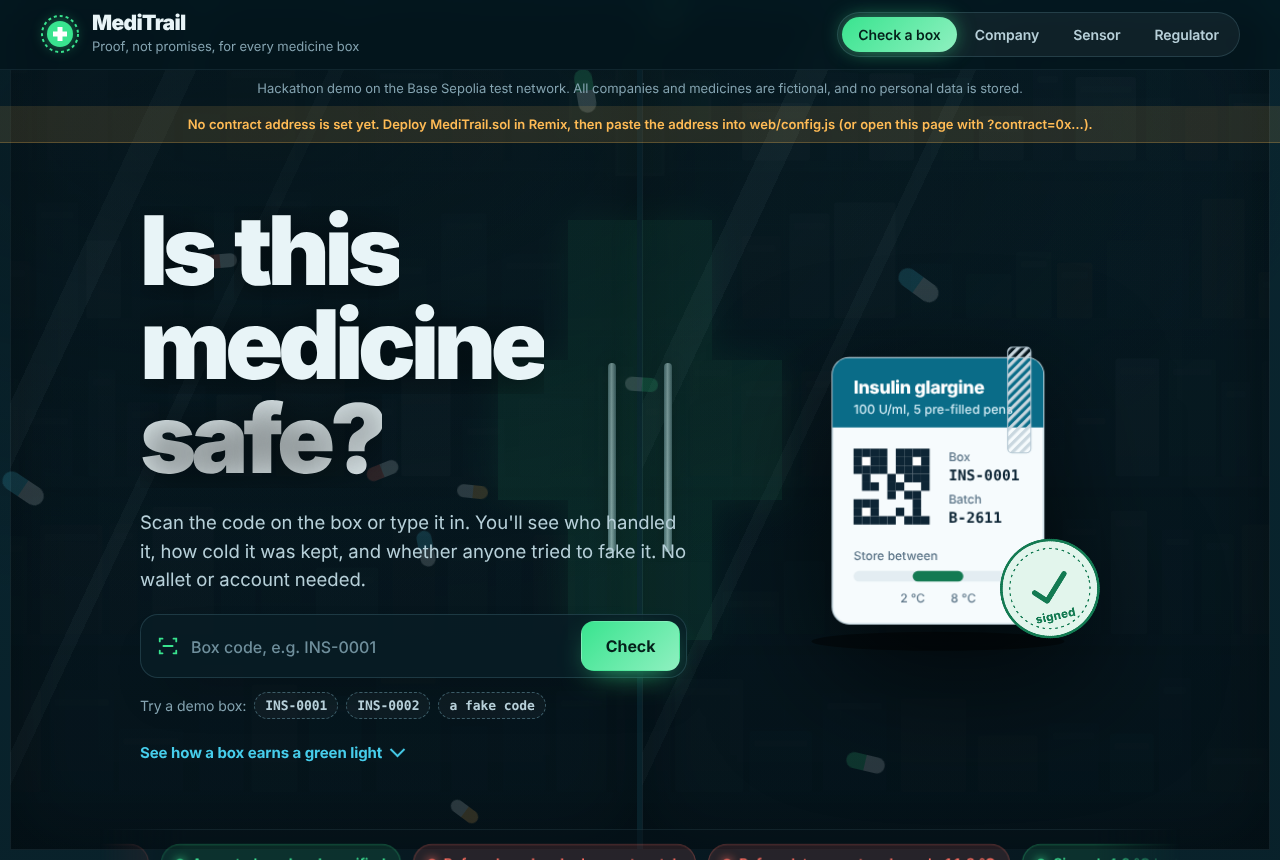
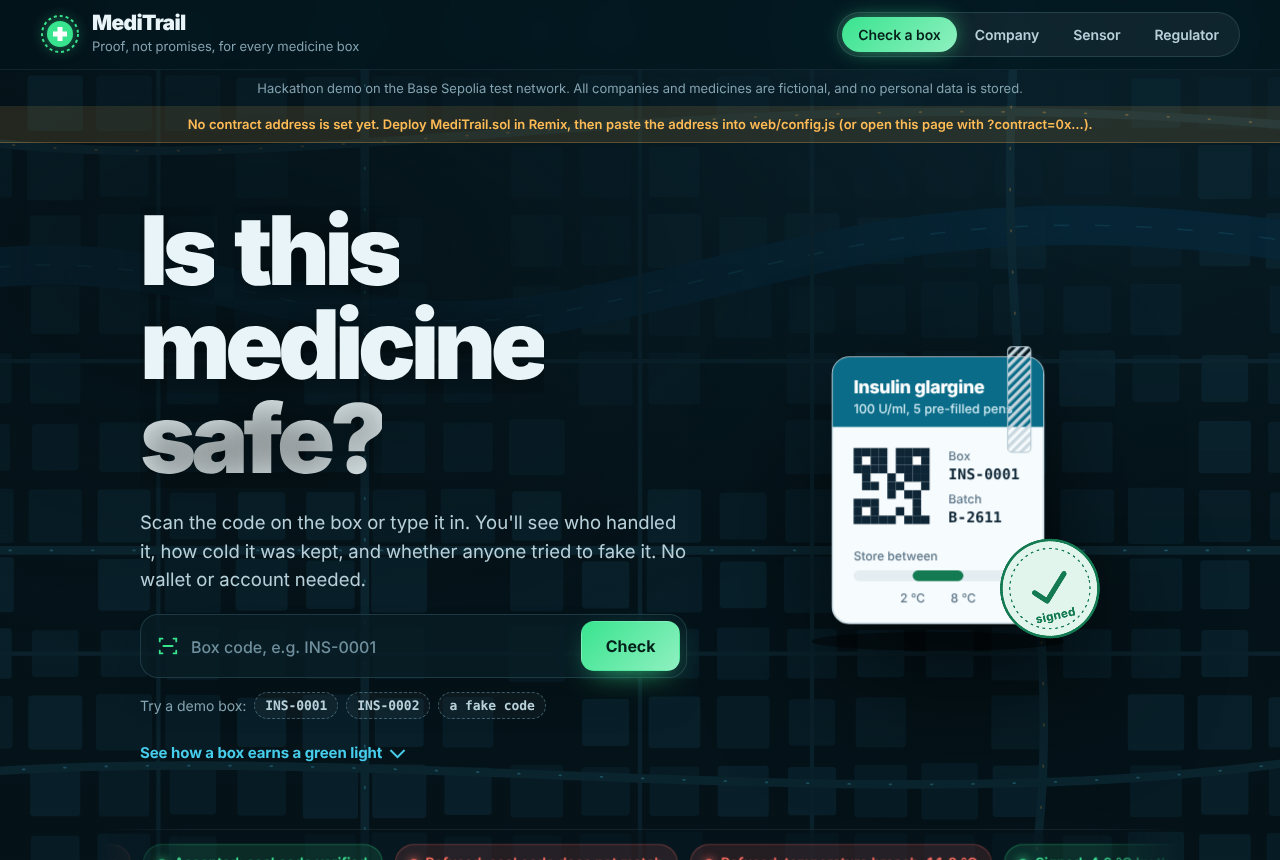
Background: a night cold-chain map instead of the storefront
- A dark city map (blocks, roads with moving traffic, a river) sits
  behind every page
- Once you scroll past the hero, a route fades in and draws itself
  Factory -> Distributor -> Pharmacy -> You; a glowing medicine box
  travels along it with a live temperature tag
- Each stop the box reaches lights up with a ripple and becomes a
  signed block (registered, seal verified, received cold, green light)
- Portrait screens get a vertical route; panels are more solid so map
  labels never show through text; reduced motion stops the traffic
- Browser test (33 checks) still passes

Claude-Session: https://claude.ai/code/session_01MKzpd15DitKQJQaCPeu47y

diff --git a/web/app.js b/web/app.js
@@ -593,57 +593,122 @@ async function renderAdminLists() {
 
 
 
-// ------------------------------------------------------------------ the storefront behind the page
-// Behind every page sits a pharmacy at night. Two glass doors, each carrying half of a neon
-// cross, slide apart as you scroll and reveal lit shelves of medicine boxes.
+// ------------------------------------------------------------------ the cold-chain map behind the page
+// Behind every page is a night map of a city. A route runs Factory -> Distributor -> Pharmacy -> You.
+// As you scroll, the route draws itself, a glowing medicine box travels along it with a live
+// temperature reading, and each stop it reaches lights up as a signed block.
 
 function seeded(seed) { return () => ((seed = (seed * 16807) % 2147483647) - 1) / 2147483646; }
-(function buildShelves() {
-  const host = $("#scene-interior");
-  if (!host) return;
-  const rnd = seeded(20261124);
-  const colours = ["#1f6f86", "#2a8f6a", "#5b4a96", "#b8873a", "#b95546", "#2c5d8f", "#cfe2ea", "#3a9fb5"];
-  let boxes = "";
-  const shelfYs = [210, 380, 550, 720, 890];
-  for (const y of shelfYs) {
-    let x = 30 + rnd() * 30;
-    while (x < 1570) {
-      const w = 26 + rnd() * 48, h = 46 + rnd() * 92;
-      if (x > 690 && x < 910 && y < 400) { x = 910; continue; } // leave room for the hanging cross
-      const c = colours[Math.floor(rnd() * colours.length)];
-      boxes += `<rect x="${x.toFixed(0)}" y="${(y - h).toFixed(0)}" width="${w.toFixed(0)}" height="${h.toFixed(0)}" rx="3" fill="${c}" opacity="${(0.45 + rnd() * 0.35).toFixed(2)}"/>`;
-      if (rnd() > 0.35) boxes += `<rect x="${(x + 5).toFixed(0)}" y="${(y - h + 10).toFixed(0)}" width="${(w - 10).toFixed(0)}" height="7" rx="2" fill="#fff" opacity=".28"/>`;
-      x += w + 4 + rnd() * 14;
-    }
-    boxes += `<rect x="0" y="${y}" width="1600" height="12" fill="#163f4c"/><rect x="0" y="${y + 12}" width="1600" height="10" fill="#000" opacity=".35"/>`;
+const map = { built: null, route: null, live: null, len: 0, nodeLen: [], nodes: [], courier: null, temp: null };
+
+function smoothPath(pts) {
+  // Catmull-Rom through the stops, written as cubic Bezier curves.
+  let d = `M${pts[0][0]} ${pts[0][1]}`;
+  for (let i = 0; i < pts.length - 1; i++) {
+    const p0 = pts[Math.max(0, i - 1)], p1 = pts[i], p2 = pts[i + 1], p3 = pts[Math.min(pts.length - 1, i + 2)];
+    const c1 = [p1[0] + (p2[0] - p0[0]) / 5, p1[1] + (p2[1] - p0[1]) / 5];
+    const c2 = [p2[0] - (p3[0] - p1[0]) / 5, p2[1] - (p3[1] - p1[1]) / 5];
+    d += ` C${c1[0].toFixed(0)} ${c1[1].toFixed(0)} ${c2[0].toFixed(0)} ${c2[1].toFixed(0)} ${p2[0]} ${p2[1]}`;
   }
-  host.innerHTML = `<svg viewBox="0 0 1600 1000" preserveAspectRatio="xMidYMid slice">
+  return d;
+}
+
+function buildMap() {
+  const host = $("#scene-map");
+  if (!host) return;
+  const portrait = innerWidth < innerHeight;
+  const layout = portrait ? "p" : "l";
+  if (map.built === layout) return;
+  map.built = layout;
+  const W = portrait ? 600 : 1600, H = 1000;
+  const rnd = seeded(portrait ? 11 : 23);
+  const stops = portrait
+    ? [[140, 905, "Factory", "Block 1: registered"], [445, 665, "Distributor", "Block 2: seal verified"], [150, 420, "Pharmacy", "Block 3: received cold"], [430, 150, "You", "Block 4: green light"]]
+    : [[190, 820, "Factory", "Block 1: registered"], [640, 545, "Distributor", "Block 2: seal verified"], [1070, 720, "Pharmacy", "Block 3: received cold"], [1420, 290, "You", "Block 4: green light"]];
+  const river = portrait ? `M-40 560 C 160 520, 260 600, 380 540 S 560 470, 660 520` : `M-60 330 C 260 250, 420 420, 720 360 S 1180 210, 1680 300`;
+
+  let blocks = "";
+  const step = portrait ? 60 : 80;
+  for (let x = 0; x < W; x += step) for (let y = 0; y < H; y += step) {
+    if (rnd() < 0.18) continue;
+    const pad = 7 + rnd() * 6;
+    blocks += `<rect class="map-block${rnd() > 0.7 ? " alt" : ""}" x="${x + pad}" y="${y + pad}" width="${step - pad * 2}" height="${step - pad * 2}" rx="4"/>`;
+  }
+  const roads = portrait
+    ? ["M0 300 H600", "M0 780 H600", "M300 0 V1000", "M0 120 C 200 160, 400 60, 600 110"]
+    : ["M0 640 H1600", "M0 160 C 400 220, 900 80, 1600 150", "M480 0 V1000", "M1240 0 C 1200 400, 1300 700, 1260 1000", "M0 900 C 500 860, 1100 960, 1600 880"];
+  const minor = portrait ? ["M120 0 V1000", "M480 0 V1000", "M0 460 H600"] : ["M240 0 V1000", "M800 0 V1000", "M1000 0 V1000", "M0 420 H1600", "M0 760 H1600"];
+  const routeD = smoothPath(stops);
+
+  host.innerHTML = `<svg viewBox="0 0 ${W} ${H}" preserveAspectRatio="xMidYMid slice">
     <defs>
-      <linearGradient id="wall" x1="0" y1="0" x2="0" y2="1"><stop offset="0" stop-color="#0d2c37"/><stop offset="1" stop-color="#061820"/></linearGradient>
-      <filter id="neonblur" x="-50%" y="-50%" width="200%" height="200%"><feGaussianBlur stdDeviation="14"/></filter>
+      <linearGradient id="routeGrad" gradientUnits="userSpaceOnUse" x1="${stops[0][0]}" y1="${stops[0][1]}" x2="${stops[3][0]}" y2="${stops[3][1]}">
+        <stop offset="0" stop-color="#46cdeb"/><stop offset="1" stop-color="#39e48f"/>
+      </linearGradient>
+      <filter id="glow" x="-20%" y="-20%" width="140%" height="140%"><feGaussianBlur stdDeviation="4" result="b"/><feMerge><feMergeNode in="b"/><feMergeNode in="SourceGraphic"/></feMerge></filter>
     </defs>
-    <rect width="1600" height="1000" fill="url(#wall)"/>
-    ${boxes}
-    <g transform="translate(800 150)">
-      <path d="M-25 -75h50v50h50v50h-50v50h-50v-50h-50v-50h50z" fill="#39e48f" filter="url(#neonblur)" opacity=".9"/>
-      <path d="M-25 -75h50v50h50v50h-50v50h-50v-50h-50v-50h50z" fill="#39e48f"/>
-      <path d="M-25 -75h50v50h50v50h-50v50h-50v-50h-50v-50h50z" fill="none" stroke="#c9ffe2" stroke-width="3" opacity=".7"/>
+    ${blocks}
+    <path class="map-river" d="${river}"/><path class="map-river-glint" d="${river}"/>
+    ${minor.map((d) => `<path class="map-road minor" d="${d}"/>`).join("")}
+    ${roads.map((d) => `<path class="map-road" d="${d}"/>`).join("")}
+    ${roads.map((d, i) => `<path class="map-traffic${i % 2 ? " slow" : ""}" d="${d}" style="animation-delay:-${i * 1.7}s"/>`).join("")}
+    <g class="route-layer">
+    <path class="route-base" d="${routeD}"/>
+    <path class="route-live" id="route-live" d="${routeD}"/>
+    <path class="route-pulse" id="route-pulse" d="${routeD}"/>
+    ${stops.map(([x, y, name, sub], i) => {
+      const right = portrait ? x < 300 : i !== 3;
+      const tx = right ? x + 26 : x - 26, anchor = right ? "start" : "end";
+      return `<g class="node" data-i="${i}"><circle class="ripple" cx="${x}" cy="${y}" r="14"/><circle class="ring" cx="${x}" cy="${y}" r="14"/><circle class="core" cx="${x}" cy="${y}" r="6"/>
+        <text x="${tx}" y="${y - 2}" text-anchor="${anchor}">${name}</text><text class="sub" x="${tx}" y="${y + 16}" text-anchor="${anchor}">${sub}</text></g>`;
+    }).join("")}
+    <g class="courier" id="courier">
+      <circle class="halo" r="24"/>
+      <rect class="boxbody" x="-13" y="-10" width="26" height="20" rx="3"/><rect class="boxband" x="-13" y="-10" width="26" height="7" rx="3"/>
+      <g transform="translate(20 -36)"><rect class="temp-bg" width="74" height="24" rx="12"/><text class="temp" id="courier-temp" x="37" y="16.5" text-anchor="middle">4.6 °C</text></g>
+    </g>
     </g>
   </svg>`;
-})();
 
-(function buildCapsules() {
-  const host = $("#capsules");
-  if (!host || matchMedia("(prefers-reduced-motion: reduce)").matches) return;
-  const rnd = seeded(7);
-  const pairs = [["#46cdeb", "#e8f4f7"], ["#39e48f", "#e8f4f7"], ["#ffbb55", "#e8f4f7"], ["#ff6f62", "#e8f4f7"]];
-  let html = "";
-  for (let i = 0; i < 14; i++) {
-    const [c1, c2] = pairs[i % pairs.length];
-    html += `<span class="capsule" style="left:${(rnd() * 96).toFixed(1)}%;--w:${(22 + rnd() * 26).toFixed(0)}px;--t:${(22 + rnd() * 22).toFixed(1)}s;--delay:-${(rnd() * 40).toFixed(1)}s;--r0:${(rnd() * 360).toFixed(0)}deg;--c1:${c1};--c2:${c2}"></span>`;
+  map.live = $("#route-live");
+  map.len = map.live.getTotalLength();
+  map.live.style.strokeDasharray = `${map.len}`;
+  const pulse = $("#route-pulse");
+  pulse.style.strokeDasharray = `18 ${map.len}`;
+  pulse.style.animation = "none";
+  if (!matchMedia("(prefers-reduced-motion: reduce)").matches && pulse.animate) {
+    pulse.animate([{ strokeDashoffset: map.len + 18 }, { strokeDashoffset: 0 }], { duration: 4200, iterations: Infinity });
   }
-  host.innerHTML = html;
-})();
+  // Where along the route each stop sits.
+  map.nodeLen = stops.map(([x, y]) => {
+    let best = 0, bestD = Infinity;
+    for (let l = 0; l <= map.len; l += 4) {
+      const pt = map.live.getPointAtLength(l);
+      const d = (pt.x - x) ** 2 + (pt.y - y) ** 2;
+      if (d < bestD) { bestD = d; best = l; }
+    }
+    return best;
+  });
+  map.nodes = $$(".node", host);
+  map.courier = $("#courier");
+  map.temp = $("#courier-temp");
+  map.last = -1;
+}
+
+function updateMap(p) {
+  if (!map.live) return;
+  const drawn = Math.max(0.001, Math.min(1, p)) * map.len;
+  if (Math.abs(drawn - map.last) < 0.5) return;
+  map.last = drawn;
+  map.live.style.strokeDashoffset = `${map.len - drawn}`;
+  const pt = map.live.getPointAtLength(drawn);
+  map.courier.setAttribute("transform", `translate(${pt.x.toFixed(1)} ${pt.y.toFixed(1)})`);
+  map.temp.textContent = `${(4.6 + 1.3 * Math.sin(p * 17) + 0.4 * Math.sin(p * 53)).toFixed(1)} °C`;
+  map.nodes.forEach((n, i) => n.classList.toggle("lit", drawn >= map.nodeLen[i] - 6));
+}
+
+buildMap();
+addEventListener("resize", () => { buildMap(); map.last = -1; });
 
 // Cursor spotlight on panels, and a gentle tilt on the "who it helps" cards.
 document.addEventListener("pointermove", (ev) => {
@@ -689,7 +754,10 @@ function onScroll() {
   document.documentElement.style.setProperty("--p", max > 0 ? Math.min(1, y / max) : 0);
   $("#progress-bar").style.setProperty("--p", max > 0 ? Math.min(1, y / max) : 0);
   $(".top").classList.toggle("scrolled", y > 8);
-  document.documentElement.style.setProperty("--open", Math.min(1, y / (innerHeight * 0.85)).toFixed(3));
+  // The route fades in once the hero is scrolled past, then draws over the rest of the page.
+  const start = innerHeight * 0.45;
+  document.documentElement.style.setProperty("--route", Math.max(0, Math.min(1, (y - innerHeight * 0.2) / (innerHeight * 0.45))).toFixed(3));
+  updateMap(max > start ? (y - start) / (max - start) : 0);
   if (!reduceMotion) $(".hero-art")?.style.setProperty("--sy", Math.min(y, 900));
 
   const box = $("#journey-scroll");

diff --git a/web/styles.css b/web/styles.css
@@ -5,7 +5,7 @@
 :root {
   --bg: #051319;
   --bg-2: #08202a;
-  --panel: rgba(10, 33, 43, .78);
+  --panel: rgba(9, 30, 40, .88);
   --panel-2: rgba(14, 42, 54, .86);
   --field: rgba(255, 255, 255, .055);
   --text: #e8f4f7;
@@ -47,62 +47,49 @@ a:hover { color: var(--accent-hi); }
 :focus-visible { outline: 3px solid var(--accent); outline-offset: 2px; border-radius: 6px; }
 main, .foot, .banner { position: relative; z-index: 1; }
 
-/* ================================================================ the storefront behind everything */
-.scene { position: fixed; inset: 0; z-index: 0; overflow: hidden; pointer-events: none; }
-.scene-interior {
-  position: absolute; inset: 0;
-  filter: brightness(calc(.42 + var(--open) * .58)) saturate(calc(.6 + var(--open) * .6));
-  transform: scale(calc(1.08 - var(--open) * .08));
-  transition: filter .2s linear;
-}
-.scene-interior svg { width: 100%; height: 100%; display: block; }
-.scene-glow {
-  position: absolute; left: 50%; top: -18vh; width: 120vw; height: 80vh; transform: translateX(-50%);
-  background: radial-gradient(closest-side, rgba(57, 228, 143, calc(.10 + var(--open) * .22)), transparent 75%);
-}
-.door {
-  position: absolute; top: 0; bottom: 0; width: 50.2%;
-  background:
-    linear-gradient(115deg, transparent 0 18%, rgba(190, 240, 255, .07) 18% 21%, transparent 21% 34%, rgba(190, 240, 255, .05) 34% 35.5%, transparent 35.5%),
-    linear-gradient(180deg, rgba(9, 32, 42, .88), rgba(6, 22, 30, .94));
-  border: 10px solid #0b2a35; box-shadow: inset 0 0 0 1px rgba(150, 215, 235, .14), inset 0 0 80px rgba(0, 0, 0, .45);
-  transition: transform .12s linear;
-  will-change: transform;
-}
-.door-l { left: 0; transform: translateX(calc(var(--open) * -96%)); border-right-width: 5px; }
-.door-r { right: 0; transform: translateX(calc(var(--open) * 96%)); border-left-width: 5px; }
-.door::before { /* handle bar */
-  content: ""; position: absolute; top: 42%; width: 8px; height: 22vh; border-radius: 8px;
-  background: linear-gradient(90deg, #6b8792, #cfe6ee 45%, #58717c); box-shadow: 0 0 12px rgba(0, 0, 0, .5);
-}
-.door-l::before { right: 22px; }
-.door-r::before { left: 22px; }
-.door::after { /* half of the big neon cross decal, split at the seam */
-  content: ""; position: absolute; top: 50%; width: min(14vw, 140px); height: min(42vw, 420px); max-height: 52vh;
-  background:
-    linear-gradient(var(--neon), var(--neon)) 0 50% / 100% 33.4% no-repeat,
-    linear-gradient(var(--neon), var(--neon)) 0 0 / 50% 100% no-repeat;
-  opacity: .13; filter: drop-shadow(0 0 18px rgba(57, 228, 143, .9));
-}
-.door-l::after { right: 0; transform: translateY(-50%) scaleX(-1); }
-.door-r::after { left: 0; transform: translateY(-50%); }
+/* ================================================================ the cold-chain map behind everything */
+.scene { position: fixed; inset: 0; z-index: 0; overflow: hidden; pointer-events: none; background: radial-gradient(120% 90% at 70% 10%, #0b2733 0%, var(--bg) 60%); }
+.scene-map { position: absolute; inset: 0; }
+.scene-map svg { width: 100%; height: 100%; display: block; }
+.route-layer { opacity: var(--route, 0); transition: opacity .3s linear; }
+.map-block { fill: #0a2430; }
+.map-block.alt { fill: #0c2a37; }
+.map-road { fill: none; stroke: #113442; stroke-width: 10; stroke-linecap: round; }
+.map-road.minor { stroke-width: 5; stroke: #0f2e3b; }
+.map-traffic { fill: none; stroke: rgba(70, 205, 235, .55); stroke-width: 2; stroke-linecap: round; stroke-dasharray: 2 46; animation: traffic 6s linear infinite; }
+.map-traffic.slow { animation-duration: 11s; stroke: rgba(255, 187, 85, .4); }
+@keyframes traffic { to { stroke-dashoffset: -480; } }
+.map-river { fill: none; stroke: #082f45; stroke-width: 46; stroke-linecap: round; opacity: .9; }
+.map-river-glint { fill: none; stroke: rgba(70, 205, 235, .16); stroke-width: 2; stroke-dasharray: 18 30; animation: traffic 14s linear infinite; }
+.route-base { fill: none; stroke: rgba(150, 215, 235, .22); stroke-width: 3; stroke-dasharray: 2 10; stroke-linecap: round; }
+.route-live { fill: none; stroke: url(#routeGrad); stroke-width: 5; stroke-linecap: round; filter: url(#glow); }
+.route-pulse { fill: none; stroke: rgba(200, 255, 230, .9); stroke-width: 3; stroke-linecap: round; stroke-dasharray: 18 900; animation: pulse 3.2s linear infinite; filter: url(#glow); }
+@keyframes pulse { from { stroke-dashoffset: 918; } to { stroke-dashoffset: 0; } }
+.node .ring { fill: #06161d; stroke: rgba(150, 215, 235, .35); stroke-width: 2; transition: stroke .4s, fill .4s; }
+.node .core { fill: rgba(150, 215, 235, .35); transition: fill .4s; }
+.node .ripple { fill: none; stroke: var(--neon); stroke-width: 2; opacity: 0; }
+.node text { font: 700 15px var(--font); fill: var(--muted); transition: fill .4s; }
+.node .sub { font: 600 12px var(--mono); fill: transparent; transition: fill .4s; }
+.node.lit .ring { stroke: var(--neon); fill: #07261b; }
+.node.lit .core { fill: var(--neon); }
+.node.lit text { fill: var(--text); }
+.node.lit .sub { fill: var(--neon); }
+.node.lit .ripple { animation: ripple 2.4s ease-out infinite; }
+@keyframes ripple { 0% { r: 14; opacity: .8; } 100% { r: 46; opacity: 0; } }
+.link { fill: none; stroke: rgba(57, 228, 143, 0); stroke-width: 1.5; stroke-dasharray: 4 5; transition: stroke .5s; }
+.link.lit { stroke: rgba(57, 228, 143, .55); }
+.courier .halo { fill: rgba(70, 205, 235, .18); animation: breathe 1.8s ease-in-out infinite; transform-box: fill-box; transform-origin: center; }
+@keyframes breathe { 50% { transform: scale(1.35); opacity: .5; } }
+.courier .boxbody { fill: #f6fbfd; stroke: #0a6c88; stroke-width: 2; }
+.courier .boxband { fill: #0a6c88; }
+.courier .temp { font: 700 13px var(--mono); fill: var(--good); }
+.courier .temp-bg { fill: rgba(4, 16, 21, .85); stroke: rgba(57, 228, 143, .45); }
 .scene-shade {
   position: absolute; inset: 0;
   background:
-    radial-gradient(120% 80% at 20% 15%, rgba(5, 19, 25, .55), transparent 70%),
-    linear-gradient(180deg, rgba(5, 19, 25, calc(.18 + var(--open) * .42)), rgba(5, 19, 25, calc(.35 + var(--open) * .4)));
+    radial-gradient(90% 70% at 22% 28%, rgba(5, 19, 25, .72), transparent 70%),
+    linear-gradient(180deg, rgba(5, 19, 25, .25), rgba(5, 19, 25, .5));
 }
-.scene-grid {
-  position: absolute; inset: 0; opacity: .5;
-  background-image: linear-gradient(var(--line-2) 1px, transparent 1px), linear-gradient(90deg, var(--line-2) 1px, transparent 1px);
-  background-size: 56px 56px; -webkit-mask-image: radial-gradient(ellipse at 50% 30%, #000 20%, transparent 75%); mask-image: radial-gradient(ellipse at 50% 30%, #000 20%, transparent 75%);
-}
-.capsule {
-  position: absolute; bottom: -60px; width: var(--w, 34px); height: calc(var(--w, 34px) * .42); border-radius: 999px;
-  background: linear-gradient(90deg, var(--c1, #46cdeb) 50%, var(--c2, #e8f4f7) 50%);
-  opacity: .16; animation: drift var(--t, 26s) linear var(--delay, 0s) infinite;
-}
-@keyframes drift { from { transform: translateY(0) rotate(var(--r0, 0deg)); } to { transform: translateY(-120vh) rotate(calc(var(--r0, 0deg) + 320deg)); } }
 
 /* ================================================================ header */
 .progress { position: fixed; top: 0; left: 0; right: 0; height: 3px; z-index: 40; pointer-events: none; }
@@ -545,7 +532,6 @@ tr:last-child td { border-bottom: 0; }
   .cmp-row > span:first-child { grid-column: 1 / -1; padding-bottom: 4px; border-top: 1px solid var(--line-2); }
   .cmp-row > span:nth-child(2), .cmp-row > span:nth-child(3) { border-top: 0; padding-top: 6px; font-size: 14px; }
   .cmp-head > span:first-child { display: none; }
-  .door::before { height: 14vh; }
 }
 @media (max-width: 640px) {
   .top { padding: 10px 14px; gap: 10px; }
@@ -564,7 +550,6 @@ tr:last-child td { border-bottom: 0; }
   .row { flex-wrap: wrap; }
   .steps li { padding-left: 54px; }
   .steps li::before { width: 38px; height: 38px; margin-top: -19px; font-size: 15px; }
-  .door { border-width: 6px; }
 }
 
 /* ================================================================ motion preferences and print */
@@ -574,7 +559,7 @@ tr:last-child td { border-bottom: 0; }
   .js [data-reveal] { opacity: 1; transform: none; filter: none; }
   .steps li { opacity: 1; transform: none; filter: none; }
   .hero-art { transform: none; }
-  .capsule { display: none; }
+  .map-traffic, .route-pulse, .map-river-glint { animation: none; }
 }
 @media print {
   body, html { background: #fff; color: #000; }

diff --git a/web/index.html b/web/index.html
@@ -15,13 +15,8 @@
 </head>
 <body>
   <div class="scene" aria-hidden="true">
-    <div class="scene-interior" id="scene-interior"></div>
-    <div class="scene-glow"></div>
-    <div class="scene-grid"></div>
-    <div class="door door-l"></div>
-    <div class="door door-r"></div>
+    <div class="scene-map" id="scene-map"></div>
     <div class="scene-shade"></div>
-    <div id="capsules"></div>
   </div>
   <div class="progress" aria-hidden="true"><span id="progress-bar"></span></div>
   <header class="top">
